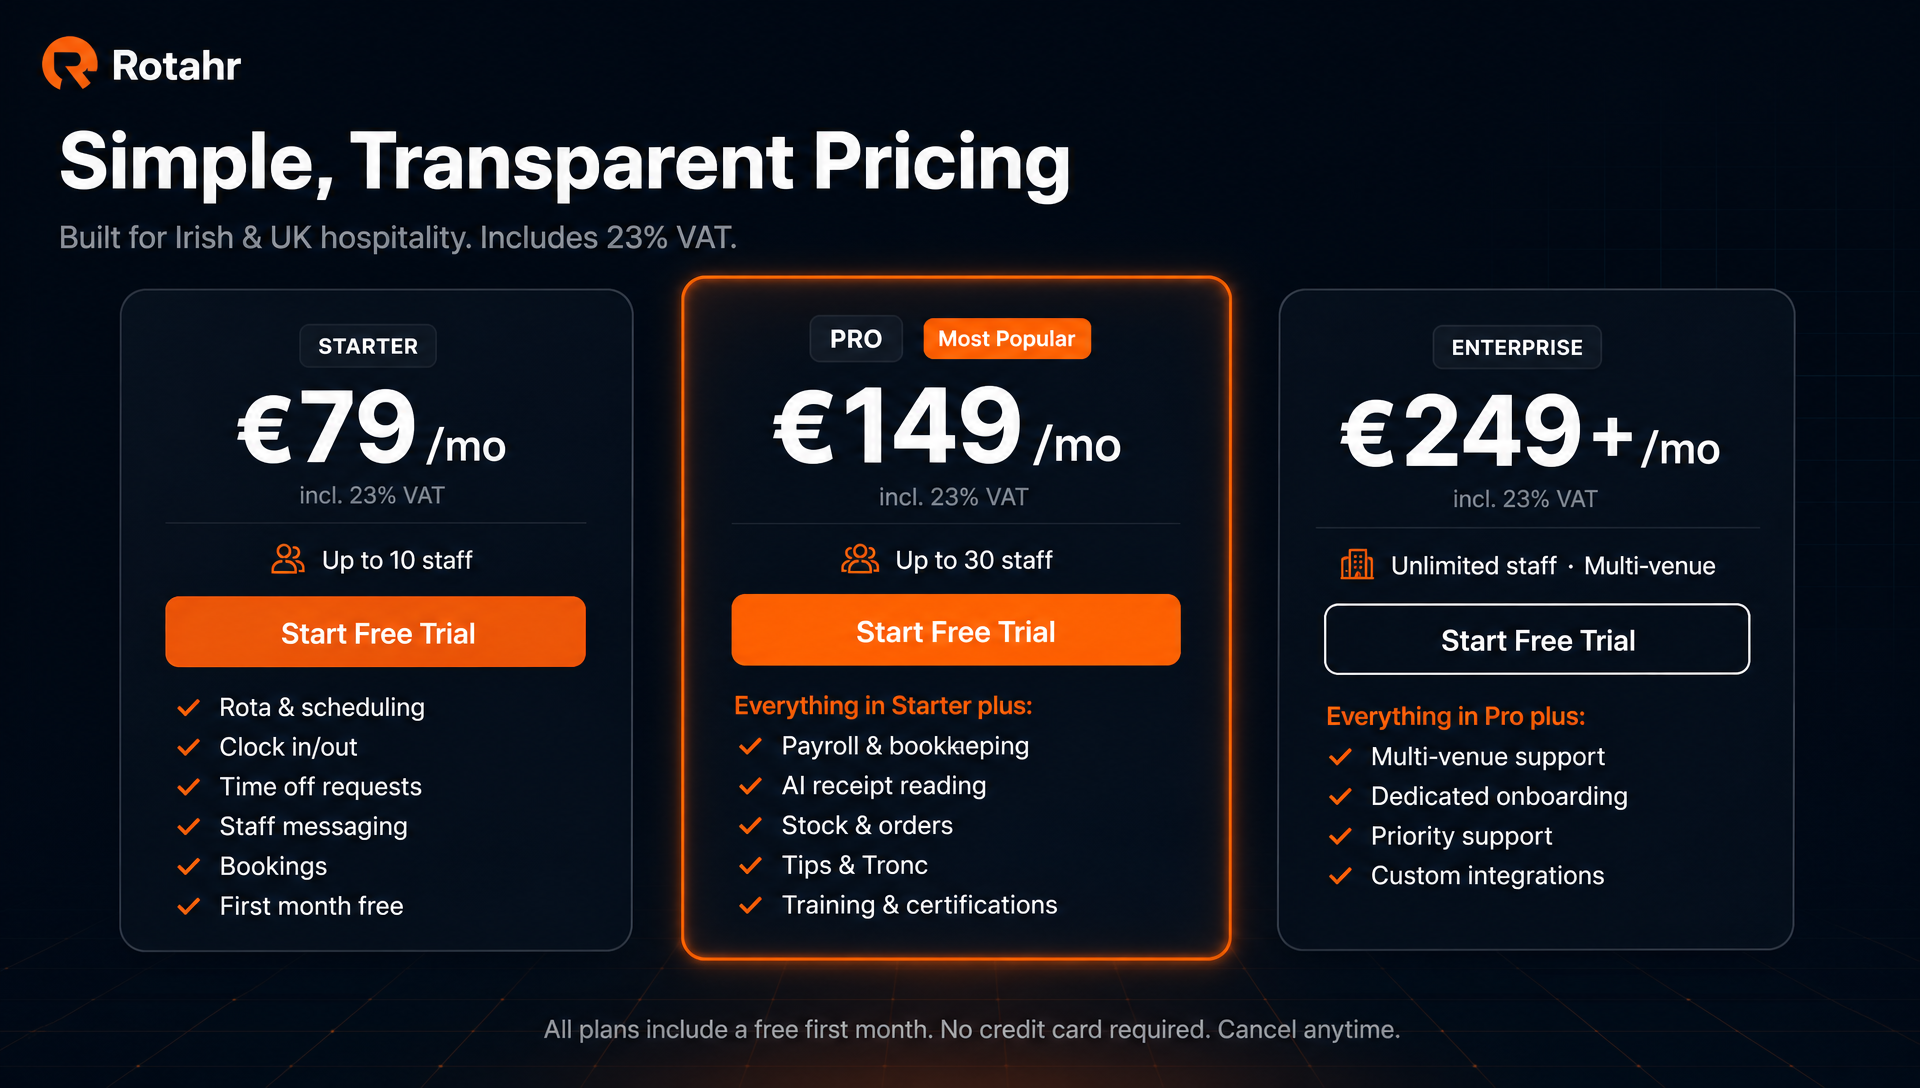
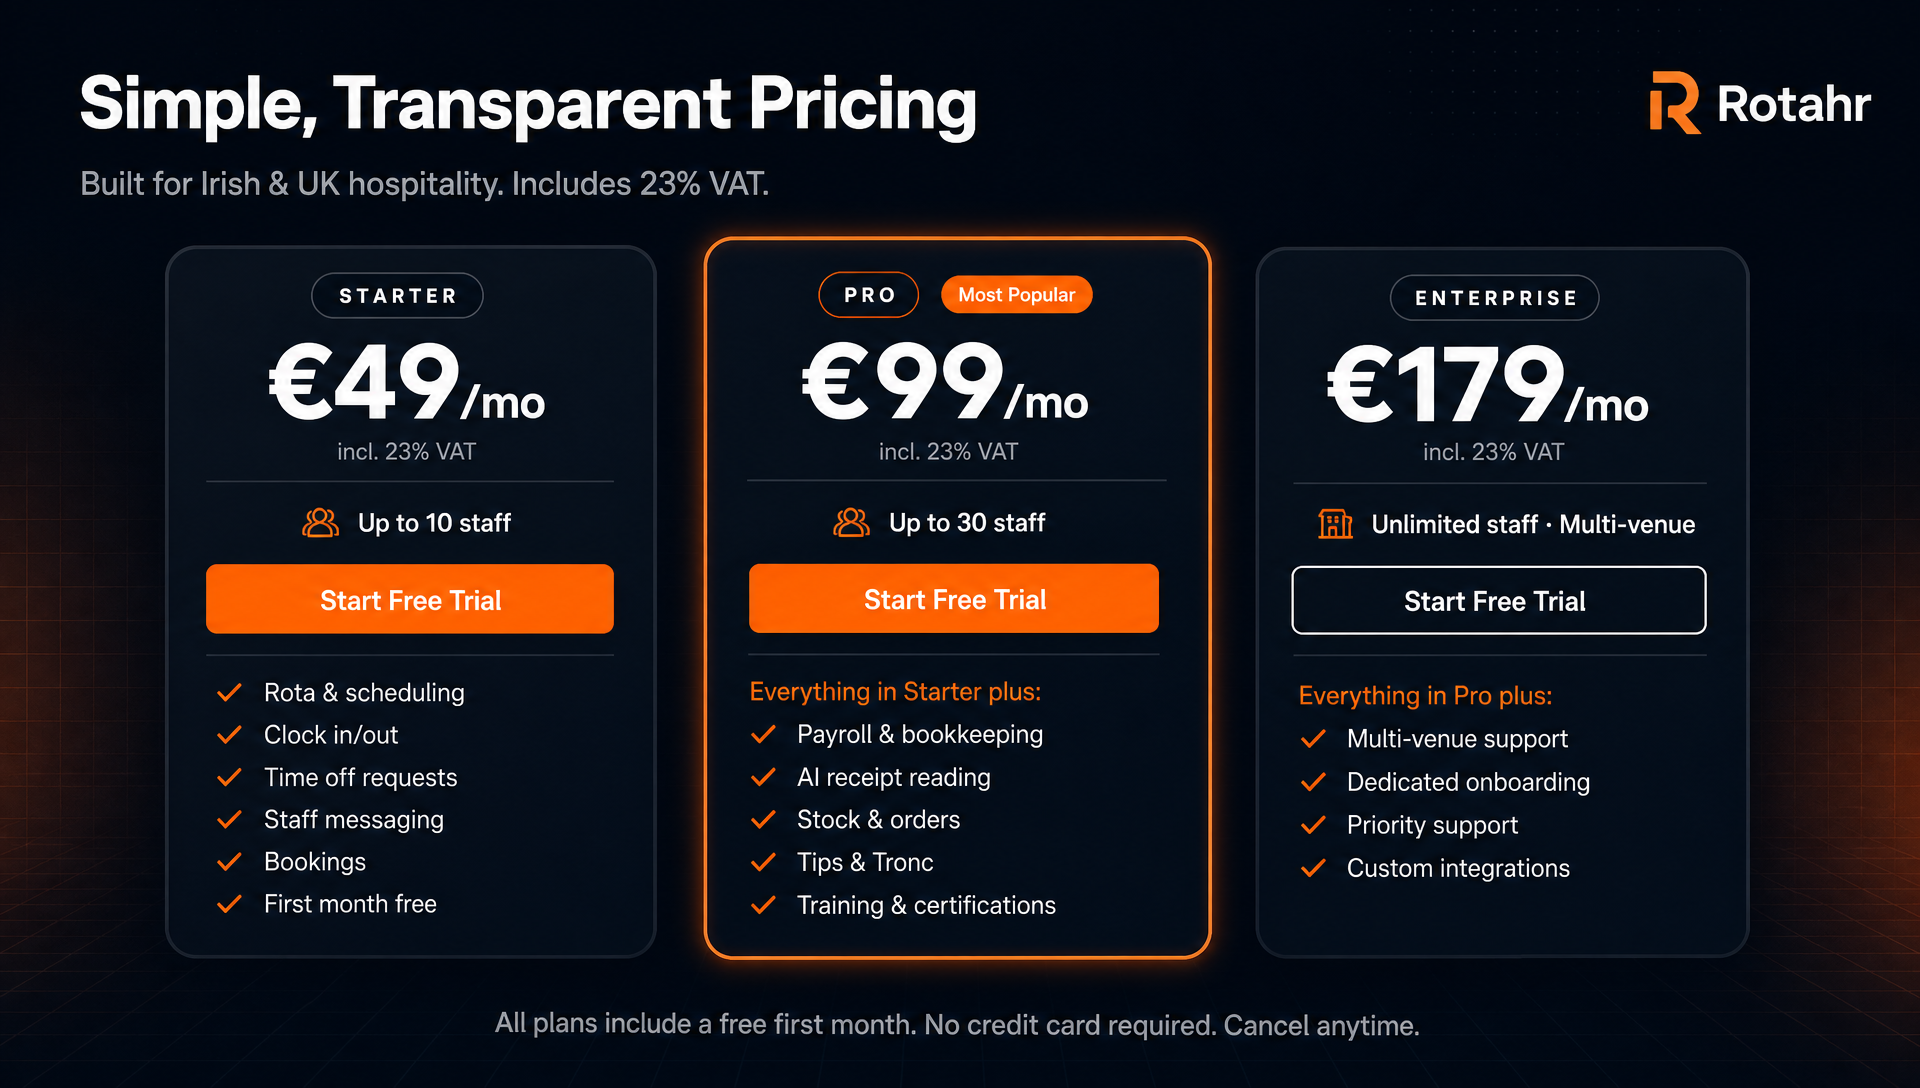
fix: pitch pricing slide €49/€99/€179

diff --git a/app/pitch/page.tsx b/app/pitch/page.tsx
@@ -13,7 +13,7 @@ export default function PitchPage() {
     "https://storage.googleapis.com/runable-templates/cli-uploads%2FnpR7iwoxdmjjem91IBsyOE3SjrOrbdCS%2FVFA7aoE8U9CpkWx7J_9vp%2Fslide-07.png",
     "https://storage.googleapis.com/runable-templates/cli-uploads%2FnpR7iwoxdmjjem91IBsyOE3SjrOrbdCS%2FeLaHSlkaiQWt3Cfra0DtX%2Fslide-08.png",
     "https://storage.googleapis.com/runable-templates/cli-uploads%2FnpR7iwoxdmjjem91IBsyOE3SjrOrbdCS%2FeQC1bTyeQBqJtYaXhaVEp%2Fslide-09.png",
-    "https://storage.googleapis.com/runable-templates/cli-uploads%2FnpR7iwoxdmjjem91IBsyOE3SjrOrbdCS%2F1bcniVO__E1AGMafNAxXJ%2Fpitch-pricing-slide.png",
+    "https://storage.googleapis.com/runable-templates/cli-uploads%2FnpR7iwoxdmjjem91IBsyOE3SjrOrbdCS%2F_nHUOCjCvprgeGDIGtj6p%2Fpitch-pricing-slide.png",
     "https://storage.googleapis.com/runable-templates/cli-uploads%2FnpR7iwoxdmjjem91IBsyOE3SjrOrbdCS%2Fl7DSqDT0H65hum-LPN2xe%2Fslide-11-new.png",
   ];
 
@@ -116,7 +116,7 @@ export default function PitchPage() {
         <div className="stat"><div className="stat-num">€290</div><div className="stat-label">avg. monthly saving vs. separate tools</div></div>
         <div className="stat"><div className="stat-num">4.8 hrs</div><div className="stat-label">saved per manager per week</div></div>
         <div className="stat"><div className="stat-num">12</div><div className="stat-label">tools replaced by one platform</div></div>
-        <div className="stat"><div className="stat-num">€79</div><div className="stat-label">starting price incl. 23% VAT</div></div>
+        <div className="stat"><div className="stat-num">€49</div><div className="stat-label">starting price incl. 23% VAT</div></div>
       </div>
 
       <section className="bottom-cta">